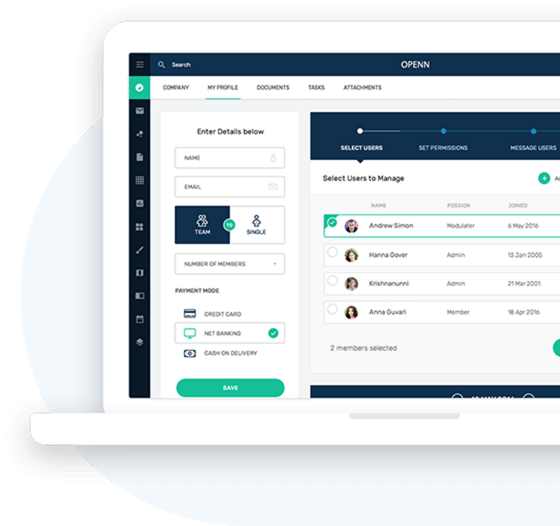
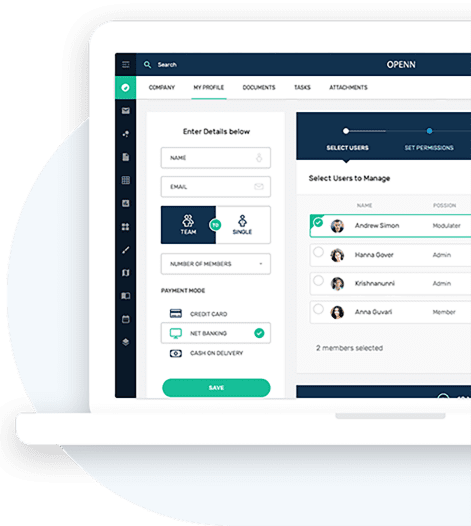
update

diff --git a/css/home.css b/css/home.css
@@ -137,7 +137,8 @@ a{
   margin-right: 52px;
   margin-top: 30px;
 }
-.saas_img{  
+.saas_img{
+  width: 471px;
   height: 526px;
 }
 .lock_cycle_img{
@@ -176,7 +177,6 @@ a{
 .productListRight{
   color: #fff;
   display: flex;
-  /*justify-content: flex-start;*/
 }
 .case{
   display: flex;
@@ -241,7 +241,7 @@ a{
   background-image: url(../images/pic_home_企业案例交通小_selected_@1x.png);
 }
 #manage_img1 .manage_img{
-  background-image: url(../images/ic_home_SAAS_用户管理_unselected_@1x.png);
+  background-image: url(../images/ic_home_SAAS_用户管理_selected_@1x.png);
 }
 #manage_img2 .manage_img {
   background-image: url(../images/ic_home_SAAS_产品管理_unselected_@1x.png);
@@ -264,55 +264,17 @@ a{
 #manage_img8 .manage_img {
   background-image: url(../images/ic_home_SAAS_系统管理_unselected_@1x.png);
 }
-#manage_img1:hover .manage_img {
-  background-image: url(../images/ic_home_SAAS_用户管理_selected_@1x.png);
-}
-#manage_img2:hover .manage_img {
-  background-image: url(../images/ic_home_SAAS_产品管理_selected_@1x.png);
-}
-#manage_img3:hover .manage_img {
-  background-image: url(../images/ic_home_SAAS_告警管理_selected_@1x.png);
-}
-#manage_img4:hover .manage_img {
-  background-image: url(../images/ic_home_SAAS_服务管理_selected_@1x.png);
-}
-#manage_img5:hover .manage_img {
-  background-image: url(../images/ic_home_SAAS_数据统计_selected_@1x.png);
-}
-#manage_img6:hover .manage_img {
-  background-image: url(../images/ic_home_SAAS_用户反馈_selected_@1x.png);
-}
-#manage_img7:hover .manage_img {
-  background-image: url(../images/ic_home_SAAS_操作日志_selected_@1x.png);
-}
-#manage_img8:hover .manage_img {
-  background-image: url(../images/ic_home_SAAS_系统管理_selected_@1x.png);
-}
 #manage_img9 .manage_img_app {
-  background-image: url(../images/ic_home_APP_设备管理_unselected_@1x.png);
-}
-#manage_img9:hover .manage_img_app {
   background-image: url(../images/ic_home_APP_设备管理_selected_@1x.png);
 }
 #manage_img10 .manage_img_app {
   background-image: url(../images/ic_home_APP_临时密码_unselected_@1x.png);
 }
-#manage_img10:hover .manage_img_app {
-  background-image: url(../images/ic_home_APP_临时密码_selected_@1x.png);
-}
 #manage_img11 .manage_img_app {
   background-image: url(../images/ic_home_APP_权限分级_unselected_@1x.png);
 }
-#manage_img11:hover .manage_img_app {
-  background-image: url(../images/ic_home_APP_权限分级_selected_@1x.png);
-}
 #manage_img12 .manage_img_app {
   background-image: url(../images/ic_home_APP_消息通知_unselected_@1x.png);
-}
-#manage_img12:hover .manage_img_app {
-  background-image: url(../images/ic_home_APP_消息通知_selected_@1x.png);
-}
-.saas_left{
 }
 .manage{
   display: flex;
@@ -734,8 +696,8 @@ img {
   box-shadow:0px 2px 10px rgba(32,33,39,0.2);
 }
 .app_img{
-  width: 355px;
-  height: 615px;
+  width: 307px;
+  height: 567px;
 }
 .app_right{
   margin-top: 100px;

diff --git a/index.html b/index.html
@@ -384,7 +384,9 @@
       htmlHref: ['company.html?companyType=0', 'company.html?companyType=1', 'company.html?companyType=2', 'company.html?companyType=3'],
       htmlDetailArr: ['利用自有的金融级安全指纹技术和云平台架构，可将智能门锁方案广泛应用在酒店、公寓、公租房等行业。', '通过服务平台生态实现开放协作，将企业、校园内空间访问权限进行统一管理，替代传统借还钥匙的繁琐过程，同时验证身份，极大地提高效率及保障校园安全。' , '针对家庭日常生活使用场景中的安全性能，个人隐私，便捷体验，智能生活等需求，提供智能门锁，智能柜锁，智能挂锁，智能箱包锁等智能锁解决方案。', '指纹电动车将指纹技术和电动摩托车完美结合，只需要用“一根手指”就能操作包括启动、关闭、开启座桶在内的多个功能，智能防盗保障行驶安全。'],
       saasBac: ['../images/ic_home_SAAS_用户管理_selected_@1x.png', '../images/ic_home_SAAS_产品管理_selected_@1x.png', '../images/ic_home_SAAS_告警管理_selected_@1x.png', '../images/ic_home_SAAS_服务管理_selected_@1x.png', '../images/ic_home_SAAS_数据统计_selected_@1x.png', '../images/ic_home_SAAS_用户反馈_selected_@1x.png', '../images/ic_home_SAAS_操作日志_selected_@1x.png', '../images/ic_home_SAAS_系统管理_selected_@1x.png'],
-      saasBacUnselected: ['../images/ic_home_SAAS_用户管理_unselected_@1x.png', '../images/ic_home_SAAS_产品管理_unselected_@1x.png', '../images/ic_home_SAAS_告警管理_unselected_@1x.png', '../images/ic_home_SAAS_服务管理_unselected_@1x.png', '../images/ic_home_SAAS_数据统计_unselected_@1x.png', '../images/ic_home_SAAS_用户反馈_unselected_@1x.png', '../images/ic_home_SAAS_操作日志_unselected_@1x.png', '../images/ic_home_SAAS_系统管理_unselected_@1x.png']
+      saasBacUnselected: ['../images/ic_home_SAAS_用户管理_unselected_@1x.png', '../images/ic_home_SAAS_产品管理_unselected_@1x.png', '../images/ic_home_SAAS_告警管理_unselected_@1x.png', '../images/ic_home_SAAS_服务管理_unselected_@1x.png', '../images/ic_home_SAAS_数据统计_unselected_@1x.png', '../images/ic_home_SAAS_用户反馈_unselected_@1x.png', '../images/ic_home_SAAS_操作日志_unselected_@1x.png', '../images/ic_home_SAAS_系统管理_unselected_@1x.png'],
+      appBac: ['../images/ic_home_APP_设备管理_selected_@1x.png', '../images/ic_home_APP_临时密码_selected_@1x.png', '../images/ic_home_APP_权限分级_selected_@1x.png', '../images/ic_home_APP_消息通知_selected_@1x.png'],
+      appBacUnselected: ['../images/ic_home_APP_设备管理_unselected_@1x.png', '../images/ic_home_APP_临时密码_unselected_@1x.png', '../images/ic_home_APP_权限分级_unselected_@1x.png', '../images/ic_home_APP_消息通知_unselected_@1x.png']
     }
     var mySwiper1 = new Swiper('#swiper1', {
       autoplay: {

diff --git a/js/common/common.js b/js/common/common.js
@@ -21,9 +21,19 @@ var comJs = {
       $(this).hover(function() {
         $(className).removeClass('hover')
         $(this).addClass('hover')
-        // $('.manage_img').eq(index).css('background-image', 'url(' + options.saasBac[index] + ')')
+        if (className === '.manage_item') {
+          $('.manage_img').each(function(imgIndex) {
+            $('.manage_img').eq(imgIndex).css('background-image', 'url(' + options.saasBacUnselected[imgIndex] + ')')
+          })
+          $('.manage_img').eq(index).css('background-image', 'url(' + options.saasBac[index] + ')')
+        }
+        if (className === '.manage_item1') {
+          $('.manage_img_app').each(function(imgIndex) {
+            $('.manage_img_app').eq(imgIndex).css('background-image', 'url(' + options.appBacUnselected[imgIndex] + ')')
+          })
+          $('.manage_img_app').eq(index).css('background-image', 'url(' + options.appBac[index] + ')')
+        }
       })
-        // $('.manage_img').eq(index).css('background-image', 'url(' + options.saasBacUnselected[index] + ')')
     })
   },
   handleCaseTabChange: function(options) {
